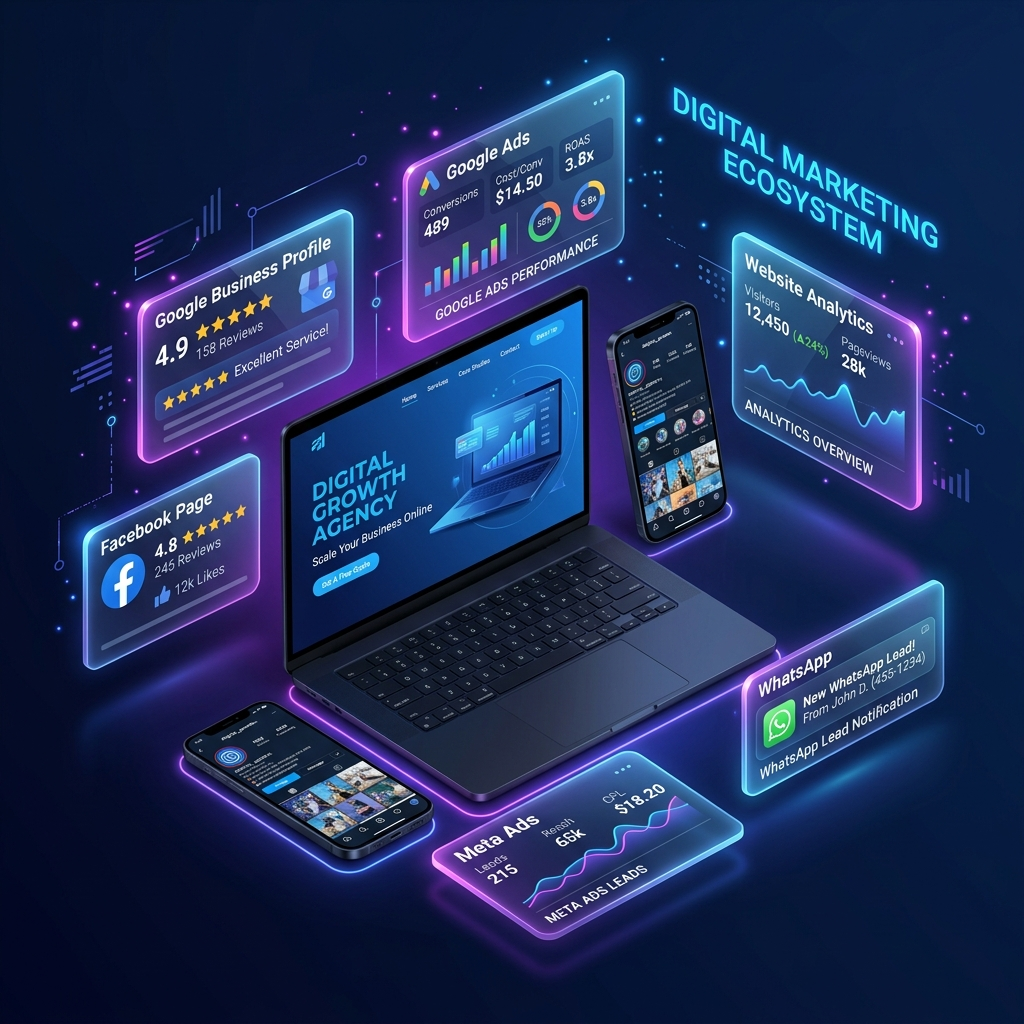
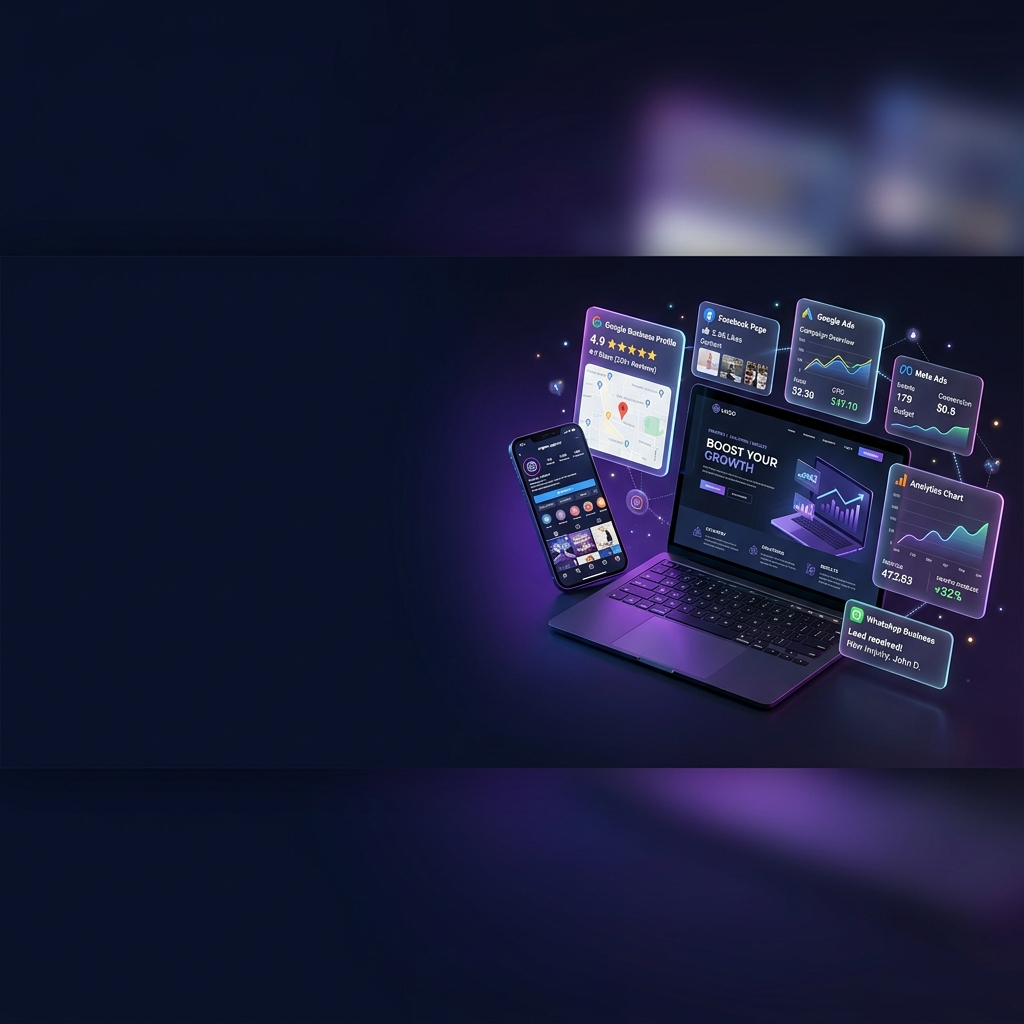
feat(lp): integrate responsive 16:9 hero background overlay asset

diff --git a/app/(funnels)/lp/business-launch-package/HeroLaunchPackage.tsx b/app/(funnels)/lp/business-launch-package/HeroLaunchPackage.tsx
@@ -18,11 +18,11 @@ export default function HeroLaunchPackage({ onOpenModal }: HeroLaunchPackageProp
           alt="Complete Business Launch Package Ecosystem Digital Showcase"
           fill
           priority
-          className="object-cover object-right md:object-right-top opacity-75 lg:opacity-90"
+          className="object-cover object-center opacity-100"
         />
-        {/* Left Side Dark Navy Gradient Overlay for Text Visibility */}
-        <div className="absolute inset-0 bg-gradient-to-r from-[#050814] via-[#050814]/95 sm:via-[#050814]/90 to-transparent lg:w-[65%] pointer-events-none" />
-        <div className="absolute inset-0 bg-gradient-to-b from-[#050814]/60 via-transparent to-[#050814] pointer-events-none" />
+        {/* Subtle Gradient Blend for Seamless Text Readability */}
+        <div className="absolute inset-0 bg-gradient-to-r from-[#050814]/90 via-[#050814]/60 to-transparent sm:w-[60%] pointer-events-none" />
+        <div className="absolute inset-0 bg-gradient-to-b from-[#050814]/40 via-transparent to-[#050814] pointer-events-none" />
       </div>
 
       {/* 2. Main Hero Content Container */}
